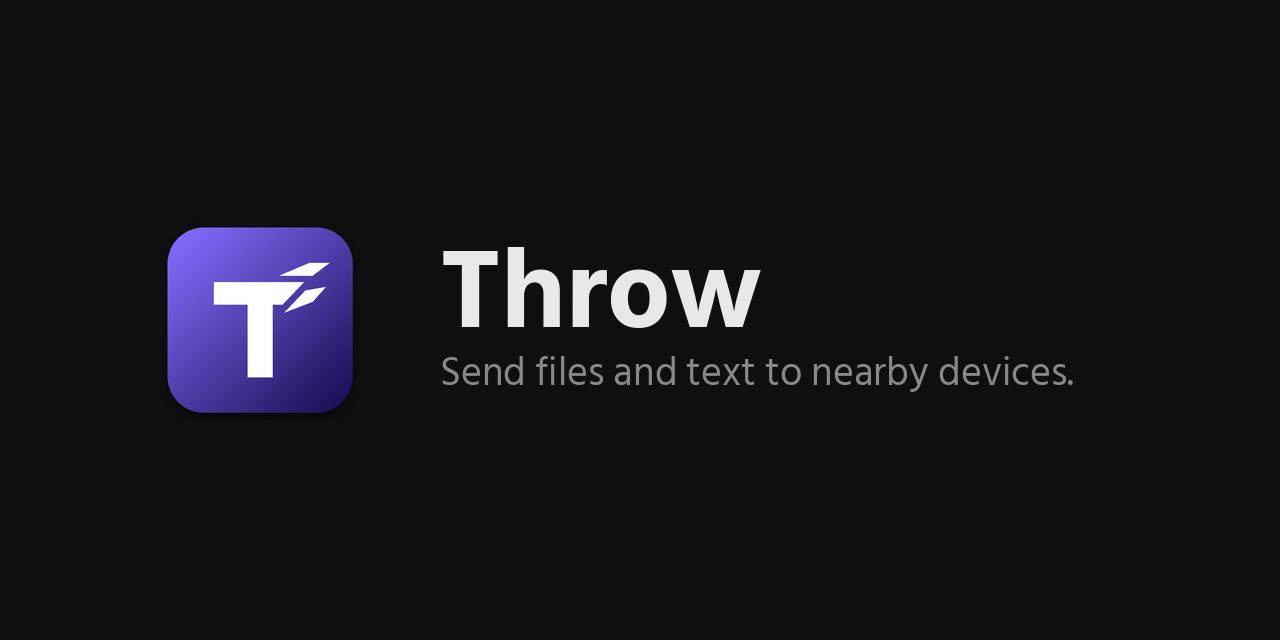
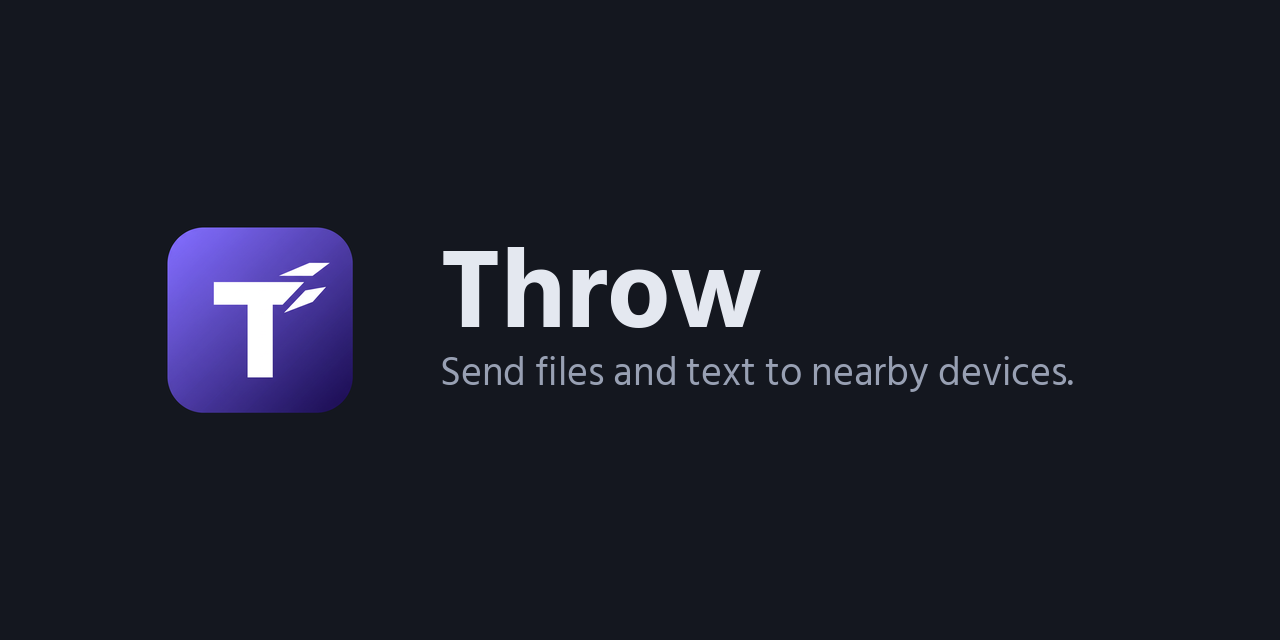
switch colour palette to soothing blue-slate

Changed region(s): [[0.3438, 0.5625, 0.8438, 0.625]]

diff --git a/docs/style.css b/docs/style.css
@@ -1,16 +1,17 @@
 /* Throw — landing page
    Mobile first. Breakpoints: 768px, 1024px.
-   Palette: bg #0F0F0F · text #E8E8E8 · secondary #888888
-            accent #7C6AF7 (download link only) · surface #161616 · border #1E1E1E */
+   Palette: bg #14171F · text #E4E8F0 · secondary #98A0B3
+            accent #8B7CF7 (download link only) · surface #1B1F29 · border #282D3A
+   Soothing blue-slate base — tinted, never pure black or white. */
 
 :root {
-  --bg: #0F0F0F;
-  --text: #E8E8E8;
-  --secondary: #888888;
-  --accent: #7C6AF7;
-  --surface: #161616;
-  --border: #1E1E1E;
-  --nav-border: #1a1a1a;
+  --bg: #14171F;
+  --text: #E4E8F0;
+  --secondary: #98A0B3;
+  --accent: #8B7CF7;
+  --surface: #1B1F29;
+  --border: #282D3A;
+  --nav-border: #222632;
 }
 
 * {
@@ -55,7 +56,7 @@ a:focus-visible {
   align-items: center;
   justify-content: space-between;
   padding: 14px 20px;
-  background: rgba(15, 15, 15, 0.82);
+  background: rgba(20, 23, 31, 0.82);
   backdrop-filter: blur(12px);
   -webkit-backdrop-filter: blur(12px);
   border-bottom: 1px solid var(--nav-border);
@@ -167,6 +168,65 @@ h2 {
   border-top: 1px solid var(--border);
 }
 
+/* ── FAQ ─────────────────────────────────────── */
+
+.faq details {
+  border-bottom: 1px solid var(--border);
+}
+
+.faq details:first-of-type {
+  border-top: 1px solid var(--border);
+}
+
+.faq summary {
+  display: flex;
+  align-items: center;
+  justify-content: space-between;
+  gap: 16px;
+  padding: 16px 0;
+  font-weight: 500;
+  font-size: 16px;
+  line-height: 1.4;
+  cursor: pointer;
+  list-style: none;
+  transition: opacity 150ms ease;
+}
+
+.faq summary::-webkit-details-marker {
+  display: none;
+}
+
+.faq summary:hover {
+  opacity: 0.72;
+}
+
+.faq summary:focus-visible {
+  outline: 2px solid var(--text);
+  outline-offset: 3px;
+  border-radius: 2px;
+}
+
+.faq summary::after {
+  content: "+";
+  color: var(--secondary);
+  font-size: 22px;
+  font-weight: 400;
+  line-height: 1;
+  flex-shrink: 0;
+}
+
+.faq details[open] summary::after {
+  content: "\2212";
+}
+
+.faq details p {
+  color: var(--secondary);
+  font-size: 16px;
+  line-height: 1.6;
+  max-width: 640px;
+  padding: 0 0 18px;
+}
+
 /* ── Download table ──────────────────────────── */
 
 .table-wrap {
@@ -205,7 +265,7 @@ td a {
   display: inline-block;
   text-decoration: underline;
   text-underline-offset: 3px;
-  text-decoration-color: #333;
+  text-decoration-color: #3a4152;
   transition: transform 150ms ease, text-decoration-color 150ms ease;
 }
 
@@ -267,6 +327,11 @@ td a:hover {
     padding: 48px 0;
   }
 
+  .faq summary {
+    font-size: 17px;
+    padding: 18px 0;
+  }
+
   .footer {
     padding: 32px 32px 56px;
   }
@@ -306,14 +371,16 @@ td a:hover {
   .nav-link,
   .download-link,
   .footer a,
-  td a {
+  td a,
+  .faq summary {
     transition: none;
   }
 
   .nav-link:hover,
   .download-link:hover,
   .footer a:hover,
-  td a:hover {
+  td a:hover,
+  .faq summary:hover {
     transform: none;
   }
 }

diff --git a/docs/index.html b/docs/index.html
@@ -3,7 +3,7 @@
 <head>
   <meta charset="utf-8">
   <meta name="viewport" content="width=device-width, initial-scale=1">
-  <meta name="theme-color" content="#0F0F0F">
+  <meta name="theme-color" content="#14171F">
   <title>Throw — Send files and text to nearby devices</title>
   <meta name="description" content="Send files and text to nearby devices. Android, Windows, Linux.">
   <link rel="icon" type="image/png" href="logo.png">
